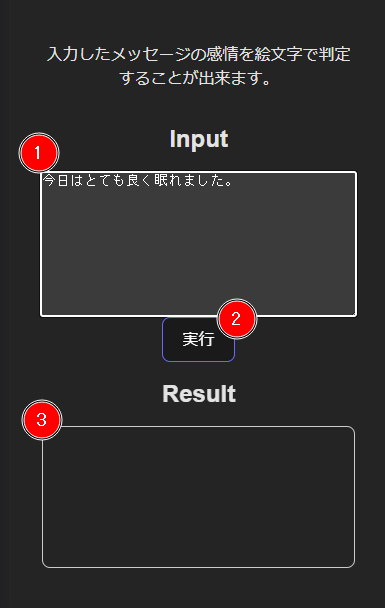
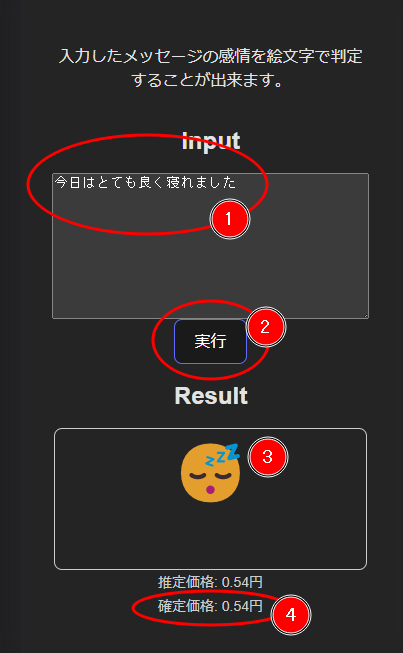
how-to-use

diff --git a/src/routes/HowToUse.svelte b/src/routes/HowToUse.svelte
@@ -18,7 +18,7 @@
   <span class="remark"
     >※現在工事中
     <br />
-    入金後、残高に反映されます。
+    ①で入金後、②の残高に反映されます。
   </span>
   <Spacer height={24} />
 
@@ -28,9 +28,13 @@
 
   <p>4. メッセージを入力して実行する</p>
   <img src="/how-to-use/execute.png" alt="Input message and execute" />
+  <span class="remark"
+    >
+    ①に入力し、②の実行を押すと実行されます。<br />
+    その後③に結果が表示され、④に利用料金が表示されます。
+  </span>
   <Spacer height={24} />
 
-  <p>5. 利用料金を確認する</p>
   <span class="remark">
     詳しい利用料金は<a href="/law" use:link>特定商取引法に基づく表記</a
     >をご覧ください。

diff --git a/public/README.md b/public/README.md
@@ -1,0 +1,1 @@
+# public assets
